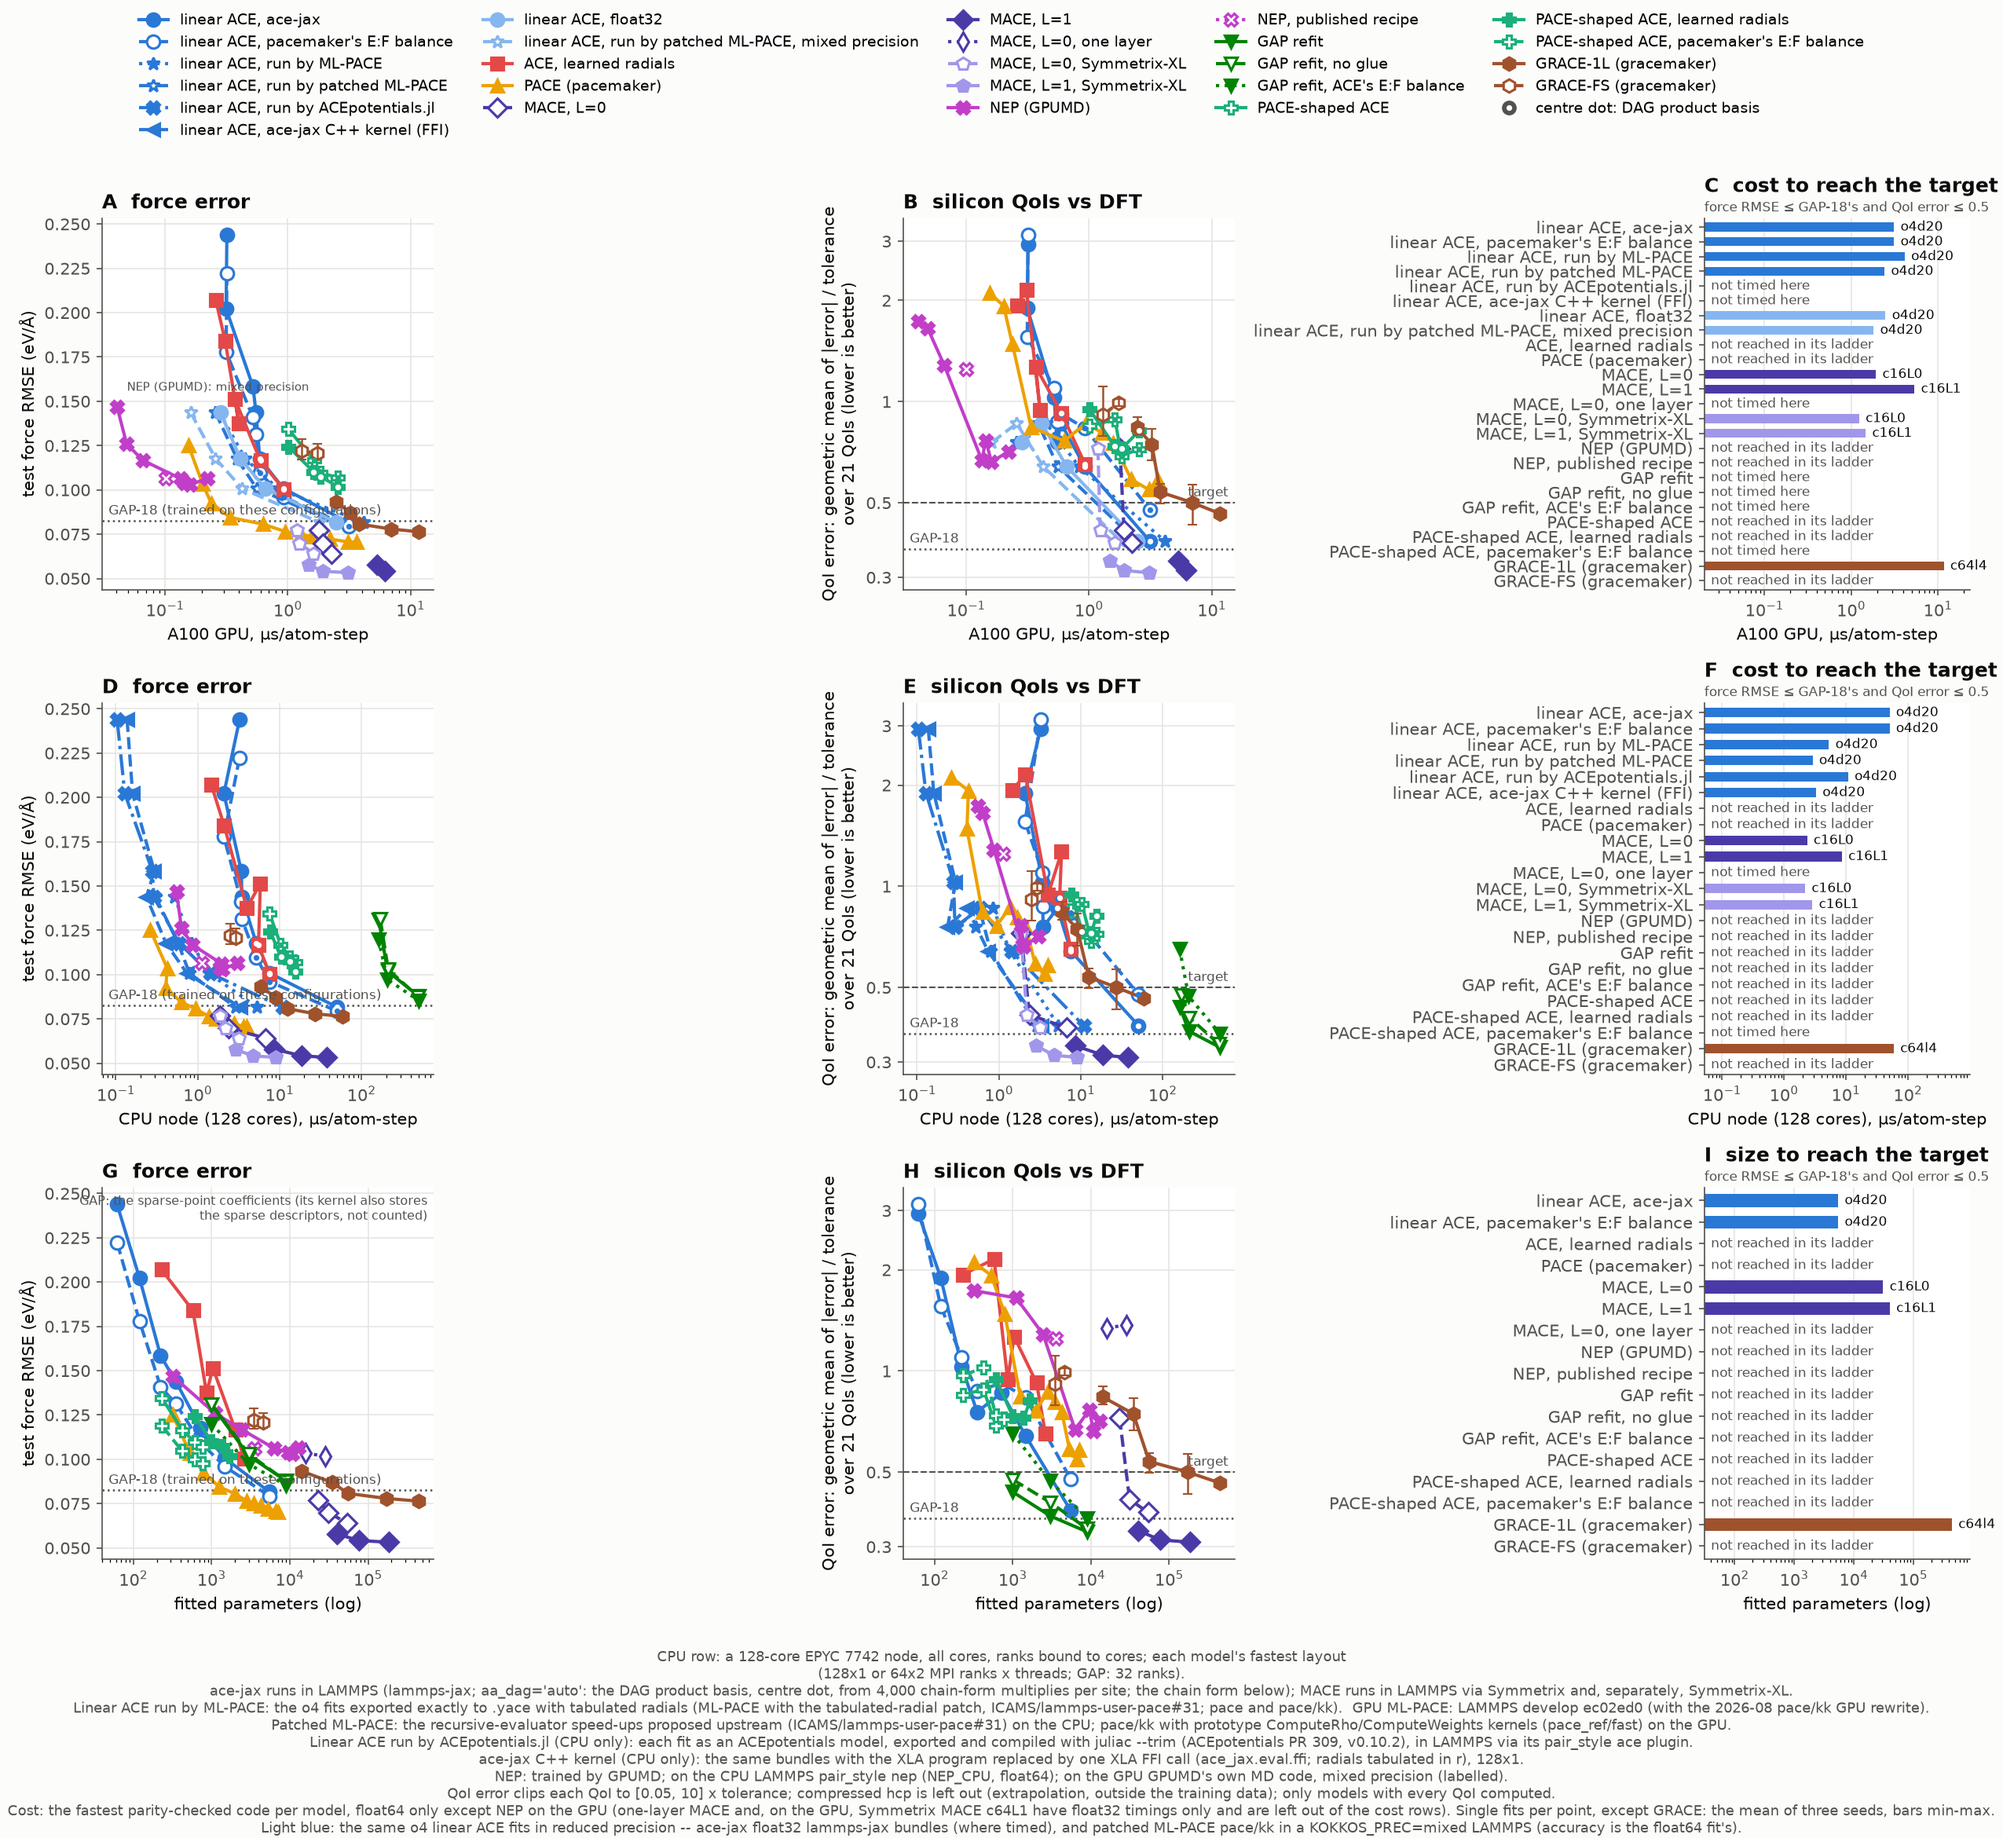
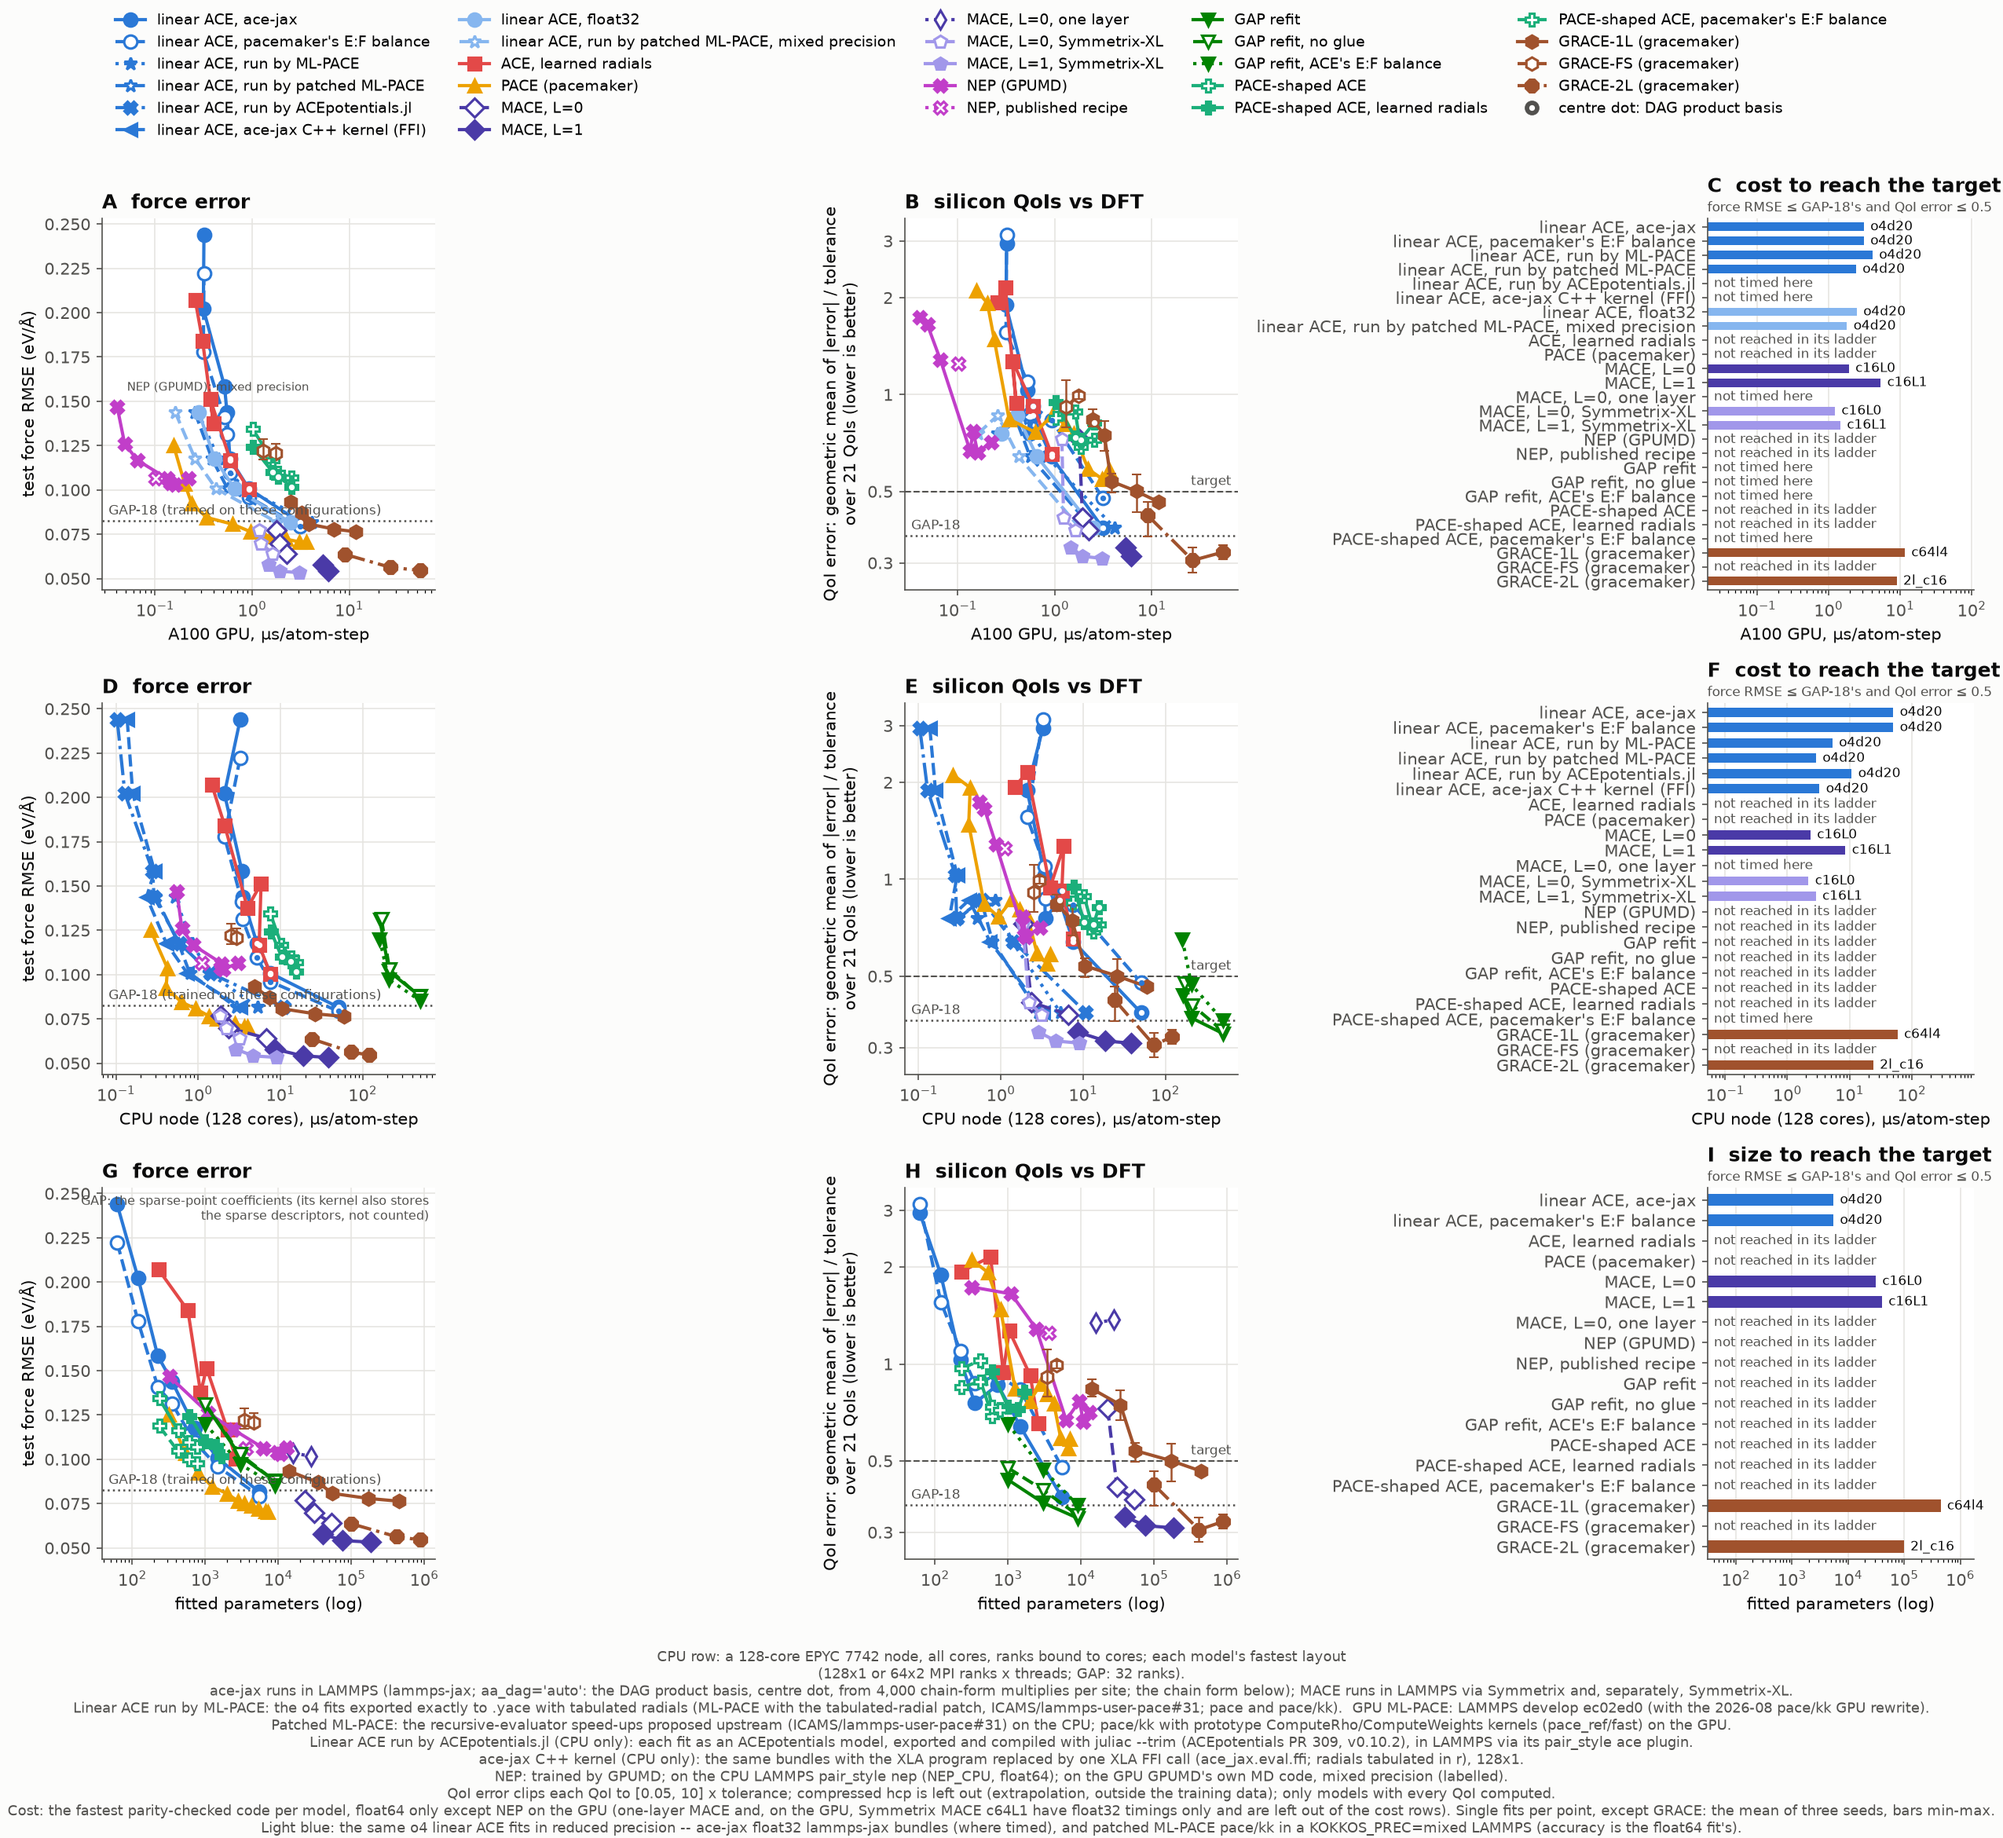
GRACE-2L in the Si accuracy-cost benchmark (#117)
* feat(bench): GRACE-2L family (grace_2l): GRACE_2LAYER_latest ladder, grace/2l/kk and grace/2l/cpu/kk route, 2L probe; timing jobs take a staging tree and CPU layouts

* feat(bench): grace_2l in plot_cost (seeded; GRACE-1L's hue, octagon marker), the Headline preset and the reproduce block

* feat(bench): GRACE-2L ladder c16/small/medium plus 2l_small_long (150k); large dropped for budget

* feat(bench): GRACE-2L takes GRACE_CHUNKSIZE / GRACE_PRECISION as 1L does (2l_medium fills the 40 GB A100 at the default chunk)

* feat(bench): GRACE-2L test metrics (3 seeds x c16/small/medium), timings (A100; CPU 128x1 and 64x2) and GRACE-1L/FS 64x2 CPU timings

* feat(bench): figures and cost files regenerated from the reproduce block with GRACE-2L and the 64x2 GRACE CPU rows

* docs(bench): GRACE-2L on the Performance page and in the target table; test the grace_2l inputs and pair styles

* docs(bench): GRACE-2L results, the 150k training-length check and costs; GRACE-2L QoI scores

* chore(bench): end-of-file fix on the GRACE-2L QoI scores

* fix(bench): keep 2l_small_long (the 150k check) off the GRACE-2L line

* chore(bench): regenerate the figures from the reproduce block after rebasing onto main (#112's FFI line and GRACE-2L together)

---------

diff --git a/bench/si_qoi/plot_cost.py b/bench/si_qoi/plot_cost.py
@@ -82,11 +82,15 @@ FAM = {  # family: (label, colour, marker, linestyle, filled, qoi model name pat
     # the seed mean with a min-max bar (SEEDED); sienna, its own marker; FS open and dashed
     "grace":      ("GRACE-1L (gracemaker)",    "#a0522d", "h", "-",  True,  "GRACE_{s}"),
     "grace_fs":   ("GRACE-FS (gracemaker)",    "#a0522d", "h", "--", False, "GRACE_{s}"),
+    # GRACE-2L (two message-passing layers): GRACE-1L's sienna, as MACE's L=0 / L=1 share a colour -- no new hue
+    # passes (dataviz validate_palette --pairs all, light: every brown/orange tried is within CVD dE 2-5 of GAP's
+    # green or ACE-lr's red), so it is told apart by its octagon marker and dash-dot line
+    "grace_2l":   ("GRACE-2L (gracemaker)",    "#a0522d", "8", "-.", True,  "GRACE_{s}"),
 }
 # families fitted with several seeds (sizes "<size>_s<k>"): one point per size, the mean over seeds, with the
 # min-max spread as an error bar; the per-seed rows stay in metrics.jsonl.  SEED_EXCLUDE: checks, not ladder points
-SEEDED = ("grace", "grace_fs")
-SEED_EXCLUDE = ("c32l4_long",)               # the 150k-update training-length check
+SEEDED = ("grace", "grace_fs", "grace_2l")
+SEED_EXCLUDE = ("c32l4_long", "2l_small_long")   # the 150k-update training-length checks
 WL_FAMILIES = ("ace", "ace_wl_1", "ace_wl_1.75", "ace_wl_2", "ace_wl_2.5", "ace_wl_o5", "ace_lr", "pace")
 WL_RECOLOUR = {"ace": "#3987e5"}                 # the ramp's wL 1.5 step (the categorical blue is too near 1.75)
 

diff --git a/bench/si_qoi/plot_cost_web.py b/bench/si_qoi/plot_cost_web.py
@@ -16,11 +16,12 @@ sys.path.insert(0, str(pathlib.Path(__file__).parent))
 import plot_cost as P  # noqa: E402
 
 SYMBOL = {"o": "circle", "D": "diamond", "d": "diamond-tall", "s": "square", "^": "triangle-up", "v": "triangle-down",
-          "<": "triangle-left", "*": "star", "X": "x", "P": "cross", "p": "pentagon", "h": "hexagon"}
+          "<": "triangle-left", "*": "star", "X": "x", "P": "cross", "p": "pentagon", "h": "hexagon", "8": "octagon"}
 DASH = {"-": "solid", "--": "dash", ":": "dot", "-.": "dashdot"}
 # presets: the families shown (the rest stay in the legend, hidden); the first is the page's initial view
 PRESETS = {
-    "Headline": ("ace", "ace_tabfork", "ace_ffi", "pace", "mace_L0", "mace_L1", "mace_xl_L0", "mace_xl_L1", "nep", "gap", "grace"),
+    "Headline": ("ace", "ace_tabfork", "ace_ffi", "pace", "mace_L0", "mace_L1", "mace_xl_L0", "mace_xl_L1", "nep", "gap", "grace",
+                 "grace_2l"),
     "ACE variants": ("ace", "ace_E10", "ace_f32", "ace_lr", "ace_pshape", "ace_pshape_lr", "ace_pshape_E10"),
     "Same model, other code": ("ace", "ace_tab", "ace_tabfork", "ace_trim", "ace_ffi", "ace_tab_mixed", "mace_L0", "mace_L1",
                                "mace_xl_L0", "mace_xl_L1"),
